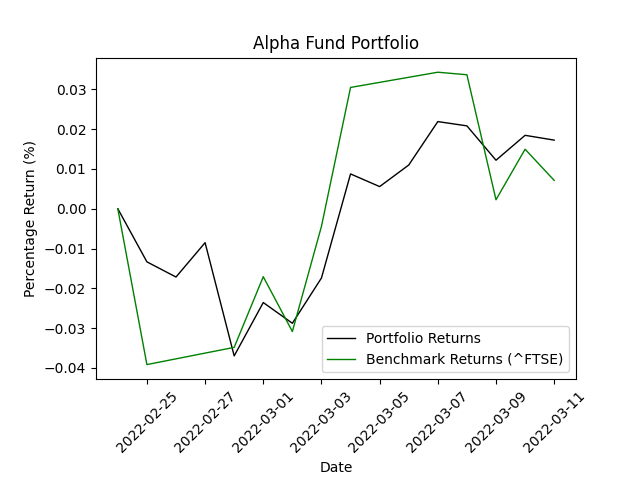
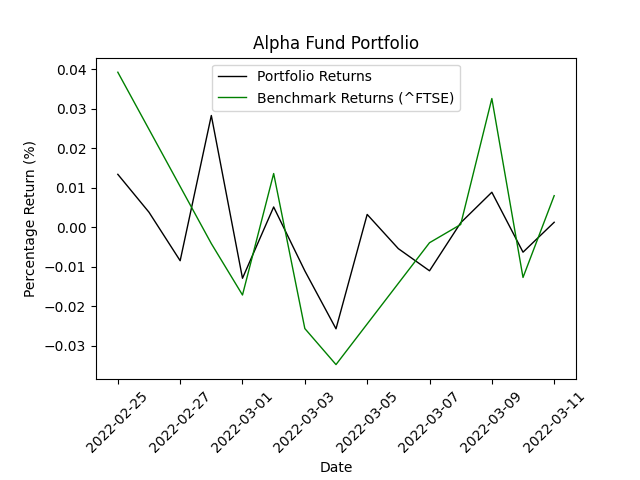
Small fixes for pct_return and check that date range is valid for specific asset.

diff --git a/main.py b/main.py
@@ -41,6 +41,9 @@ class Trade:
         if len(price_history) == 0:
             raise Exception('Price history is empty.')
 
+        if price_history.index[0] != self.date_purchased:
+            raise Exception(f'Invalid date range for {self.ticker} asset. Oldest date is {price_history.index[0]}.')
+
         self.purchase_price = price_history[0]
 
         # Fill in the date gaps for dates when market is closed with NaN and then backfill those gaps with future
@@ -178,6 +181,18 @@ class Portfolio:
 
         return df[0:len(df) - row_to_drop].fillna(0)
 
+    def abs_return_graph(self, name):
+
+        plt.plot(self.portfolio_valuation().index, self.portfolio_valuation()['sum'], lw=1, color='black')
+        plt.xticks(rotation=45)
+        plt.subplots_adjust(bottom=0.21)
+        plt.subplots_adjust(left=0.15)
+        plt.xlabel('Date')
+        plt.ylabel('Portfolio Value (USD $)')
+        plt.title(name)
+        plt.savefig(f'{name} - portfolio value.png', dpi=100)
+        plt.show()
+
     def pct_return_graph(self, benchmark, name):
         """
         :param benchmark: Benchmark asset to compare against. Usually the FTSE100 or S&P500.
@@ -185,15 +200,14 @@ class Portfolio:
         :return: None
         """
 
-        portfolio_pct_return = (self.portfolio_valuation()['sum'][0] - self.portfolio_valuation()['sum']) / \
-                               self.portfolio_valuation()['sum'][0]
+        portfolio_pct_return = self.portfolio_valuation()['sum'].pct_change()
 
         purchase_list = [asset.date_purchased for asset in self.asset_list]
         oldest_purchase = min(purchase_list)
 
         asset = yf.Ticker(benchmark).history(start=oldest_purchase, end=today())['Close']
 
-        benchmark_pct_return = (asset[0] - asset) / asset[0]
+        benchmark_pct_return = asset.pct_change()
 
         plt.plot(self.portfolio_valuation().index, portfolio_pct_return, lw=1, color='black',
                  label='Portfolio Returns')
@@ -229,7 +243,7 @@ class Portfolio:
                 labels.append(column)
                 values.append(df[column][-1])
 
-        plt.pie(x=values, labels=labels, autopct='%1.1f%%')
+        plt.pie(x=values, labels=labels, autopct='%1.1f%%', shadow=True)
         plt.title(name)
         plt.savefig(f'{name} - pie chart.png', dpi=100)
         plt.show()
@@ -268,3 +282,4 @@ if __name__ == '__main__':
 
     alpha_fund.pct_return_graph(benchmark='^FTSE', name='Alpha Fund Portfolio')
     alpha_fund.pie_chart(name='Alpha Fund Portfolio')
+    alpha_fund.abs_return_graph(name='Alpha Fund Portfolio')
